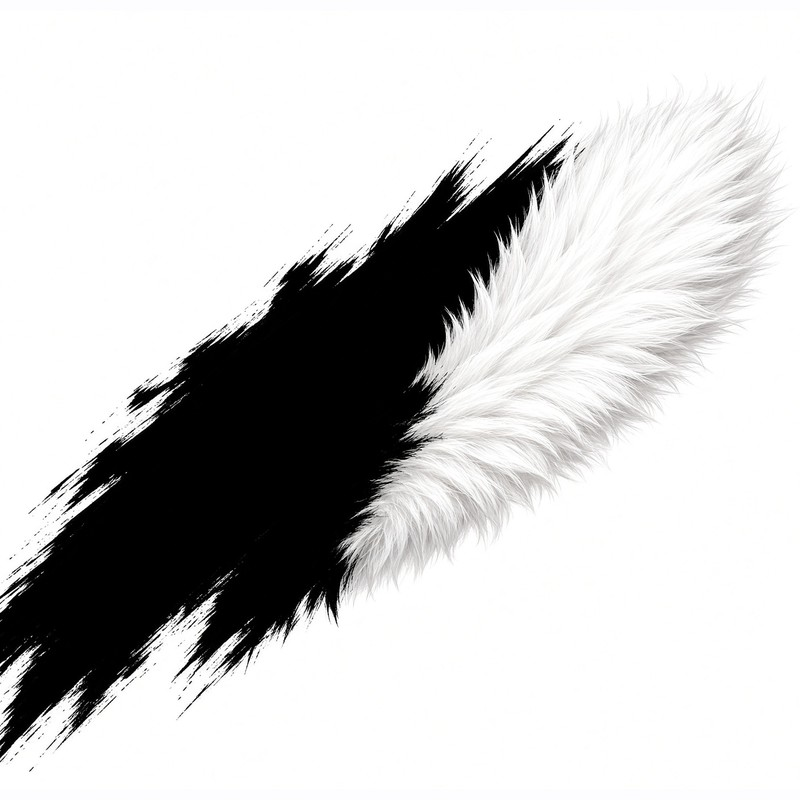
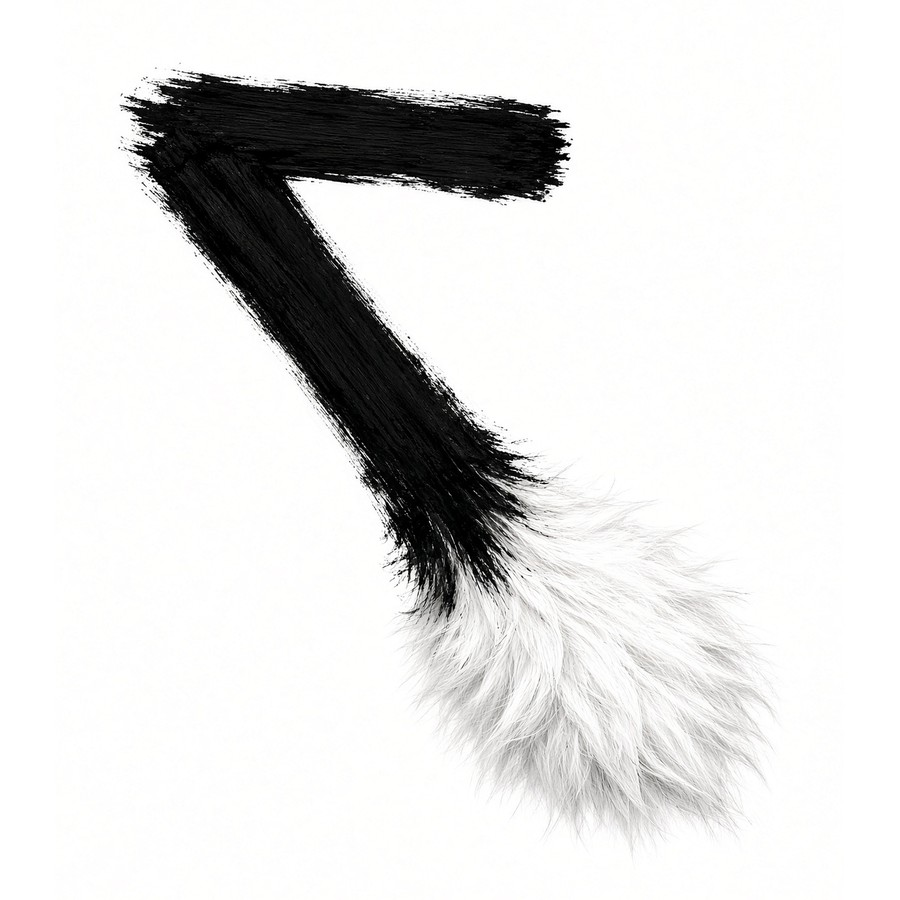
重做 temp4 标志，让笔画本身成为一个 7。
末端仍散成白毛，页头不再裁成圆。

diff --git a/temp4/about/index.html b/temp4/about/index.html
@@ -22,6 +22,6 @@
 <nav class="desk" aria-label="主导航"><a href="/temp4/work/">作品</a><a href="/temp4/services/">服务</a><a href="/temp4/about/" aria-current="page">关于</a><a href="/temp4/contact/">联络</a></nav>
 <button class="menu" type="button" data-menu aria-expanded="false">菜单</button></header>
 <nav data-drawer hidden class="drawer" aria-label="移动导航"><a href="/temp4/work/">作品</a><a href="/temp4/services/">服务</a><a href="/temp4/about/">关于</a><a href="/temp4/contact/">联络</a></nav>
-<div id="content"><main class="sheet"><img src="/temp4/media/mark.jpg" alt="黑色笔触末端散成白毛" style="width:180px;height:180px;object-fit:cover;border-radius:999px"><h1>边缘是毛，不是口号</h1><p>七锦敏团做广告。这一套把力气用在战役上：服装、户外、劳保和零售窗口。</p><p>标志是一道往前的黑笔触，尾端散成白博美的毛。不是某家运动品牌的钩，也不是数字七。</p><p>公司全称仍是上海七锦敏团广告有限公司。英文对外写 Seven Mint Creative。</p><p>上海七锦敏团广告有限公司<br><a href="mailto:hello@sevenmintcreative.com">hello@sevenmintcreative.com</a></p></main></div><footer>Seven Mint Creative</footer><script src="/temp4/assets/site.js"></script>
+<div id="content"><main class="sheet"><img src="/temp4/media/mark.jpg" alt="一笔写成的7，末端散成白毛" style="width:220px;height:auto;object-fit:contain;border-radius:0"><h1>边缘是毛，不是口号</h1><p>七锦敏团做广告。这一套把力气用在战役上：服装、户外、劳保和零售窗口。</p><p>标志是一笔写成的 7。横和斜还是黑墨，落到脚的地方散成白博美的毛。不是某家运动品牌的钩，也不是一只狗。</p><p>公司全称仍是上海七锦敏团广告有限公司。英文对外写 Seven Mint Creative。</p><p>上海七锦敏团广告有限公司<br><a href="mailto:hello@sevenmintcreative.com">hello@sevenmintcreative.com</a></p></main></div><footer>Seven Mint Creative</footer><script src="/temp4/assets/site.js"></script>
 </body>
 </html>

diff --git a/temp4/assets/site.css b/temp4/assets/site.css
@@ -11,7 +11,7 @@ a{color:inherit}
 .util a{color:var(--ink);text-decoration:none}
 .top{height:60px;display:flex;align-items:center;padding:0 28px;gap:18px;position:sticky;top:0;background:#fff;z-index:4}
 .brand{display:flex;align-items:center;gap:10px;text-decoration:none;font-weight:500}
-.brand img{width:36px;height:36px;object-fit:cover;border-radius:999px;background:var(--cloud)}
+.brand img{width:44px;height:44px;object-fit:contain;border-radius:0;background:transparent}
 .desk{display:flex;gap:22px;margin-left:28px}
 .desk a{text-decoration:none;font-weight:500;padding:18px 0;border-bottom:2px solid transparent}
 .desk a[aria-current="page"]{border-bottom-color:var(--ink)}
